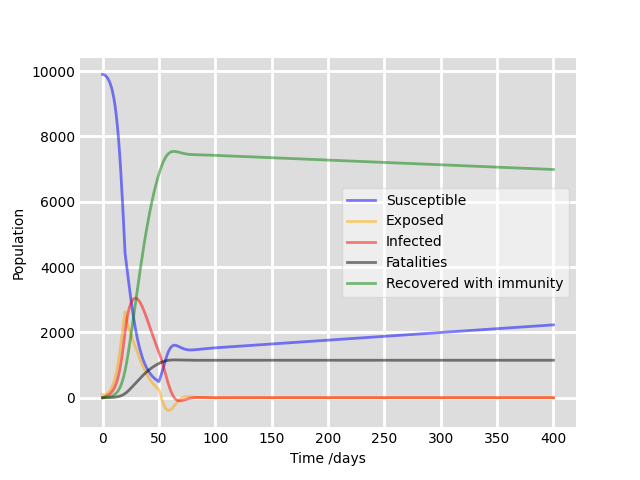
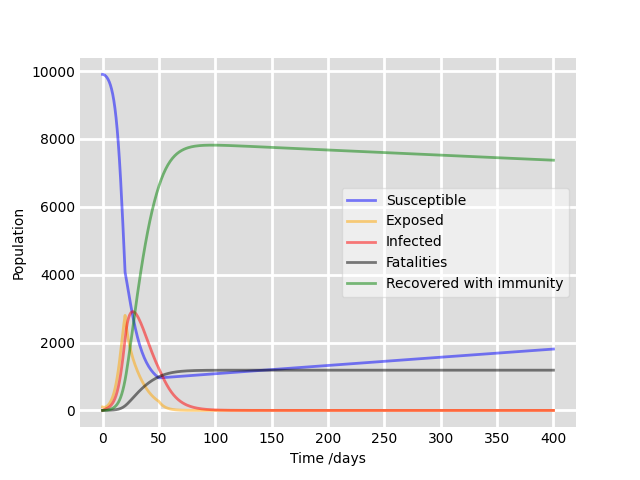
added bounds for parameters, and calculated MSE for the solution

Changed region(s): [[0.0625, 0.25, 0.9062, 0.875], [0.875, 0.4062, 0.9062, 0.4375]]

diff --git a/src/data_assimilation.py b/src/data_assimilation.py
@@ -17,7 +17,7 @@ def apply_noise(model, deviation):
 
 def assimilate(noisy_baseline, surogate_params):
     case = adaoBuilder.New()
-    case.set( 'AlgorithmParameters', Algorithm = '3DVAR' )
+    case.set( 'AlgorithmParameters', Algorithm = '3DVAR', Parameters = {"Bounds": [[0,1] for _ in range(6)]} )
     case.set( 'Background',          Vector = surogate_params )
     case.set( 'Observation',         VectorSerie = noisy_baseline )
     case.set( 'ObservationOperator', OneFunction = True, Script = 'data_assimilation_funcs.py')
@@ -53,3 +53,6 @@ if __name__=="__main__":
     model = seidr_from_params(x, name=f'assimilation/after_assimilation', no_of_days=400) 
     model.plot()
     print(x)
+
+    baseline = pd.read_csv(f'{OUTPUT_DIRECTORY_PATH}/baseline.csv', usecols=[i for i in range(1,6)])
+    print(f'MSE: {((baseline.to_numpy()[80:] - model.results[80:])**2).mean()}')
